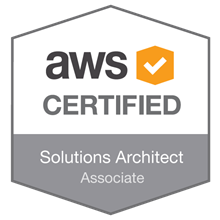
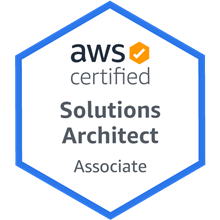
Updated new certs. Removed feedback form

diff --git a/index.html b/index.html
@@ -22,7 +22,7 @@
         <link rel="stylesheet" href="https://fonts.googleapis.com/css?family=Karla">
         <link rel="stylesheet" href="styles.css">
     </noscript>
-    
+
     <script>
            /*! loadCSS. [c]2017 Filament Group, Inc. MIT License */
             /* This file is meant as a standalone workflow for
@@ -130,11 +130,10 @@
             }( typeof global !== "undefined" ? global : this ) );
         </script>
         <script></script>
-        <script defer src="https://cdn.jsdelivr.net/npm/vue@2.5.17/dist/vue.min.js"></script>
-        <script defer src="vue-app.js"></script>
+
     </head>
     <body>
-       
+
         <div class="flex-center">
             <div class="flex-container">
                 <div class="flex-item small flex-parent-column header gray center">
@@ -142,33 +141,19 @@
                         Jari Timonen
                     </div>
                     <div class="job-title flex-item-row no-wrap">
-                        Hands-on Software Architect and Cloud Architect
+                        Software Architect | Cloud Architect | Architecture Lead
                     </div>
                 </div>
                 <div class="flex-item face gray"></div>
                 <div class="flex-item flex-parent gray">
                         <a href="https://www.certmetrics.com/amazon/public/badge.aspx?i=1&t=c&d=2016-10-06&ci=AWS00214770" class="flex-item-row" target="blank"><div class="aws-arch cert"></div></a>
-                        <a href="https://www.youracclaim.com/badges/35e15e9e-8acf-4811-9b0e-b931a40b5cfb/public_url" class="flex-item-row" target="blank"><div class="flex-item-row ocm cert"></div></a>
-                        <div class="flex-item-row jcp cert"></div>
-                        <div class="flex-item-row jcd cert"></div>
+                        <a href="https://www.certmetrics.com/amazon/public/badge.aspx?i=2&t=c&d=2018-11-21&ci=AWS00214770" class="flex-item-row" target="blank"><div class="aws-dev cert"></div></a>
+                        <a href="https://www.certmetrics.com/amazon/public/badge.aspx?i=8&t=c&d=2019-01-29&ci=AWS00214770" class="flex-item-row" target="blank"><div class="aws-bigdata cert"></div></a>
                 </div>
-                <div id="vue-app" class="flex-item flex-parent-column gray">
-                        <form class="flex-parent-column form" v-on:submit.prevent="submitContact">
-                                <div class="green" v-if="ok">
-                                    Thank you. I'll be in touch.
-                                </div>
-                                <div v-if="errors.length">
-                                    <div>Sorry, but there are some errors :(</div>
-                                    <ul>
-                                        <li class="error" v-for="error in errors">{{ error }}</li>
-                                    </ul>
-                                </div>
-                                <div class="flex-item form-field">Write me a line:</div>
-                                <input v-model="name" class="flex-item form-field" type="text" id="name-input" name="name" placeholder="  name"   />
-                                <input v-model="email" class="flex-item form-field" type="email" id="email-input" name="email" placeholder="  email" />
-                                <textarea v-model="description" class="flex-item form-field" id="description-input" name="description" rows="3" placeholder=" message"></textarea>
-                                <button id="submit" class="flex-item form-field">Submit</button>
-                        </form>
+                <div class="flex-item flex-parent gray">
+                    <a href="https://www.youracclaim.com/badges/35e15e9e-8acf-4811-9b0e-b931a40b5cfb/public_url" class="flex-item-row" target="blank"><div class="flex-item-row ocm cert"></div></a>
+                    <div class="flex-item-row jcd cert"></div>
+                    <div class="flex-item-row jcp cert"></div>
                 </div>
                 <div class="flex-item small flex-parent no-wrap gray bottom-margin">
                     <a href="https://github.com/zenix" class="flex-item-row no-wrap" target="blank"><div class="github link"></div></a>

diff --git a/styles.css b/styles.css
@@ -68,7 +68,7 @@ body {
 
 
 @media (max-width: 800px) {
-   
+
     .face {
         background-size: cover;
         max-height: 100%;
@@ -107,10 +107,12 @@ body {
 .name {
     margin: 0.1em;
     font-weight: bold;
+    font-size: xx-large;
 }
 
 .job-title {
     margin: 0.1em;
+    font-size: larger;
 }
 
 .face {
@@ -118,7 +120,7 @@ body {
     background-position: center;
     background-repeat: no-repeat;
     background-size: 60%;
-    max-height: 7%;
+    max-height: 25%;
 }
 
 .aws-arch {
@@ -127,6 +129,21 @@ body {
     background-repeat: no-repeat;
     background-size: contain;
 }
+
+.aws-dev {
+    background-image: url("static/AWS-Assoc-Dev-Cert.png");
+    background-position: center;
+    background-repeat: no-repeat;
+    background-size: contain;
+}
+
+.aws-bigdata {
+    background-image: url("static/AWS-BigData-Cert.png");
+    background-position: center;
+    background-repeat: no-repeat;
+    background-size: contain;
+}
+
 
 .jcp {
     background-image: url("static/java_cert_prog.gif");
@@ -169,47 +186,4 @@ body {
     background-repeat: no-repeat;
     background-position: center;
     background-size: contain;
-}
-
-.form {
-    width: 60%;
-}
-.form-field {
-    width: 100%;
-}
-
-input, textarea{
-    border: 1px dotted #999;
-    border-radius: 0;
-    -webkit-appearance: none;
-}
-
-button, input, textarea {
-    font-family : inherit;
-    font-size   : 100%;
-}
-
-#submit {
-background-color: #bbb;
-  padding: .5em;
-  -moz-border-radius: 1px;
-  -webkit-border-radius: 1px;
-  border-radius: 1px;
-  color: #fff;
-  text-decoration: none;
-  border: none;
-}
-
-#submit:hover {
-    border: none;
-    background: orange;
-    box-shadow: 0px 0px 1px #777;
-}
-
-.error {
-    color: red;
-}
-
-.green {
-    color: green;
 }
